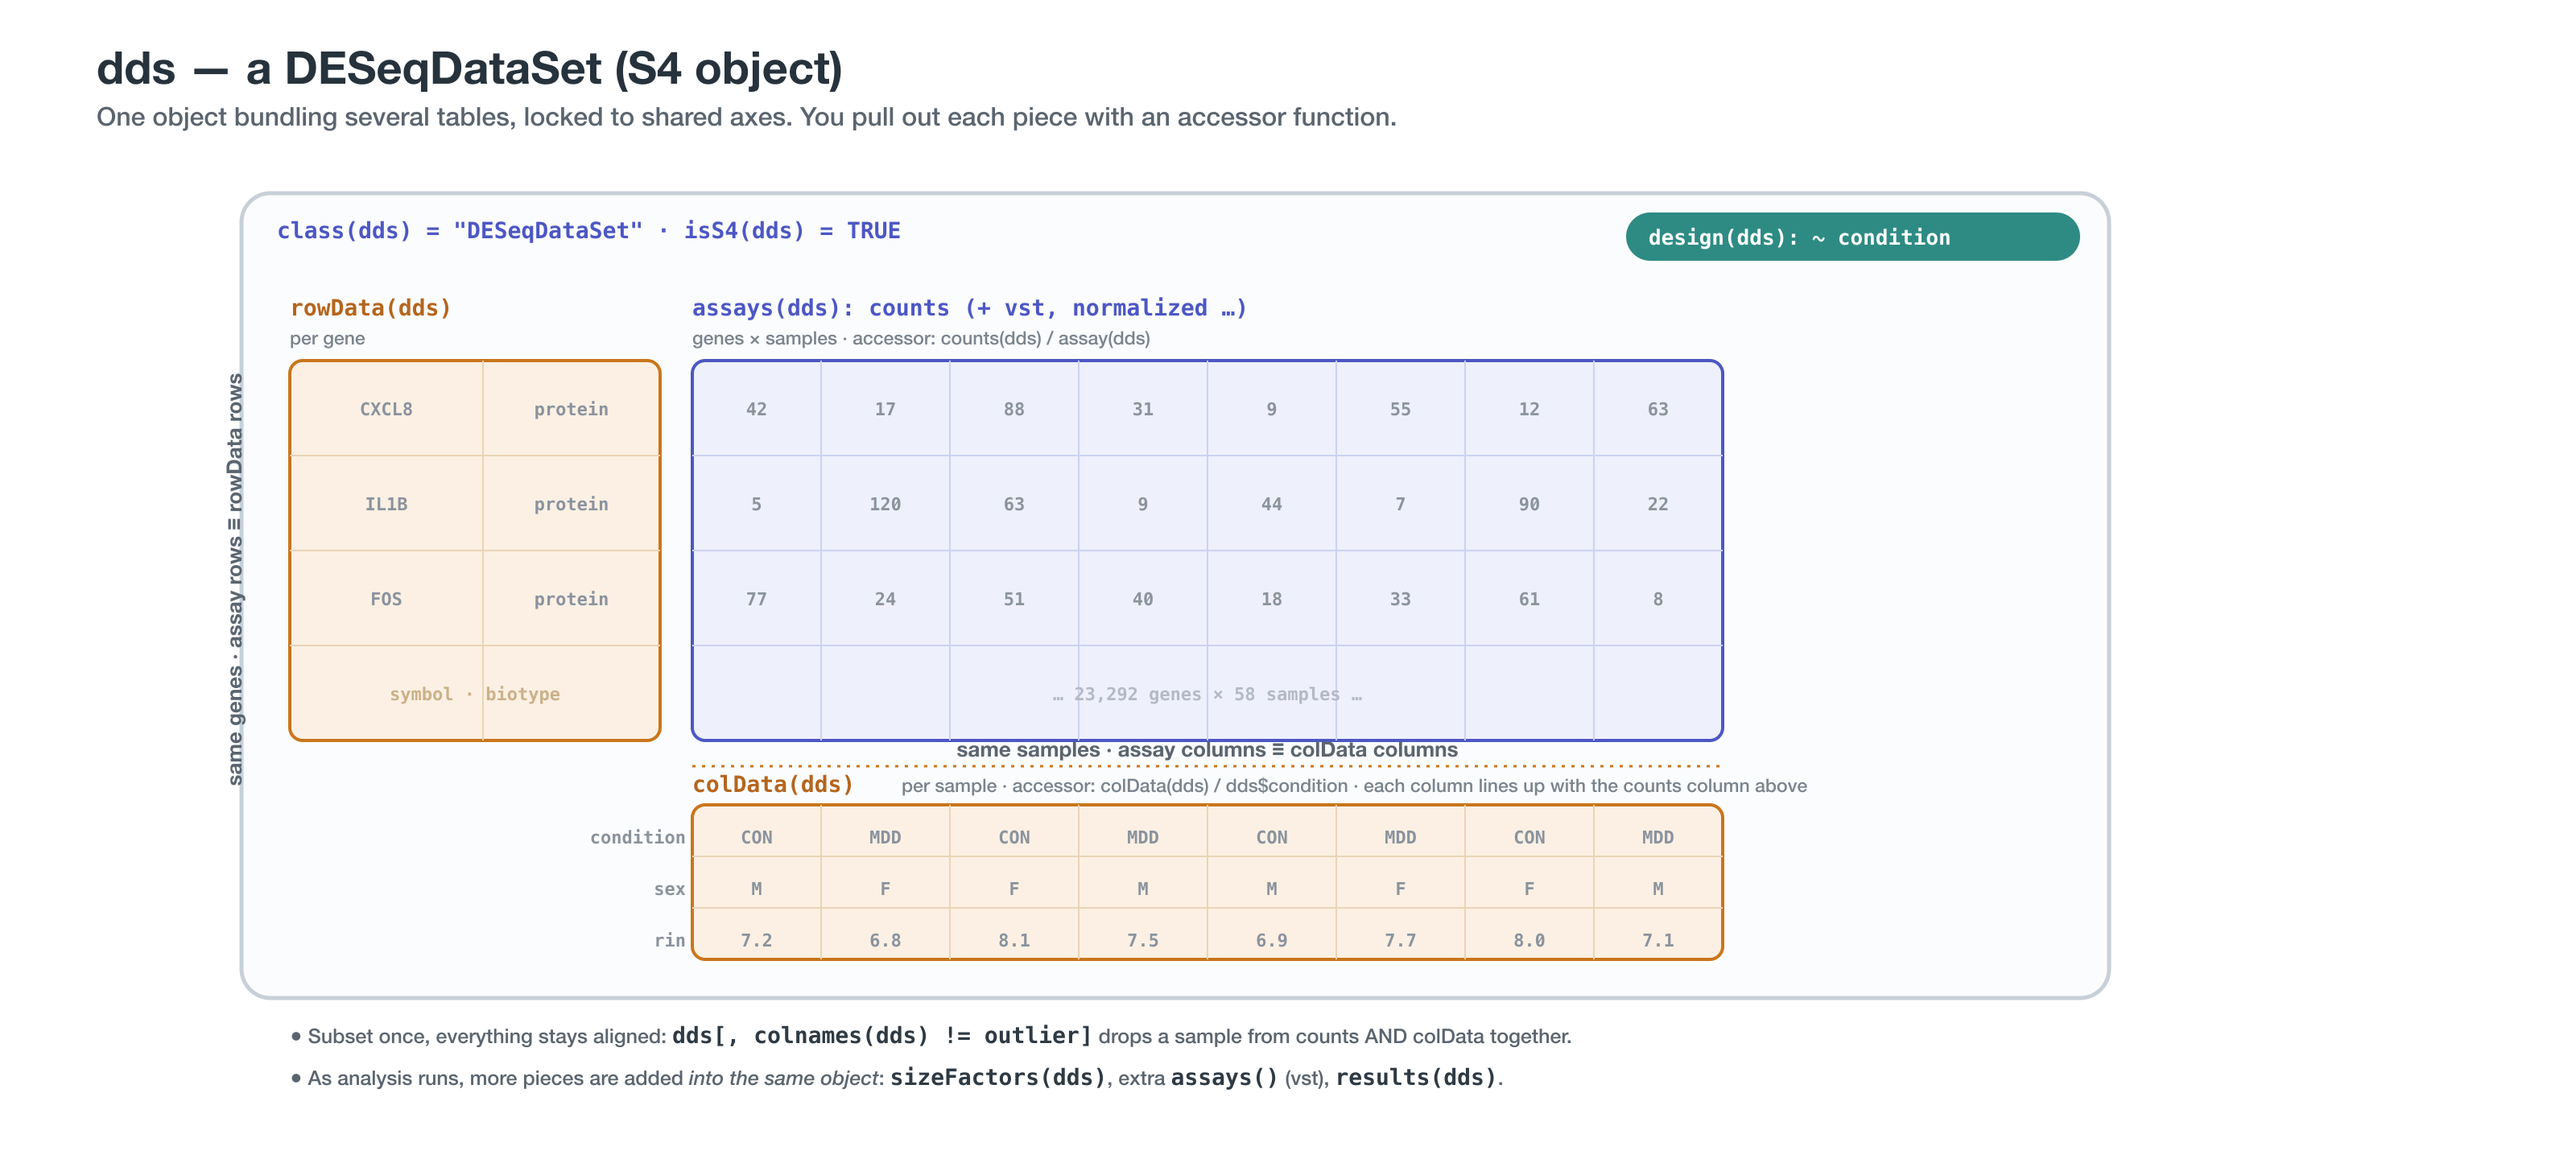
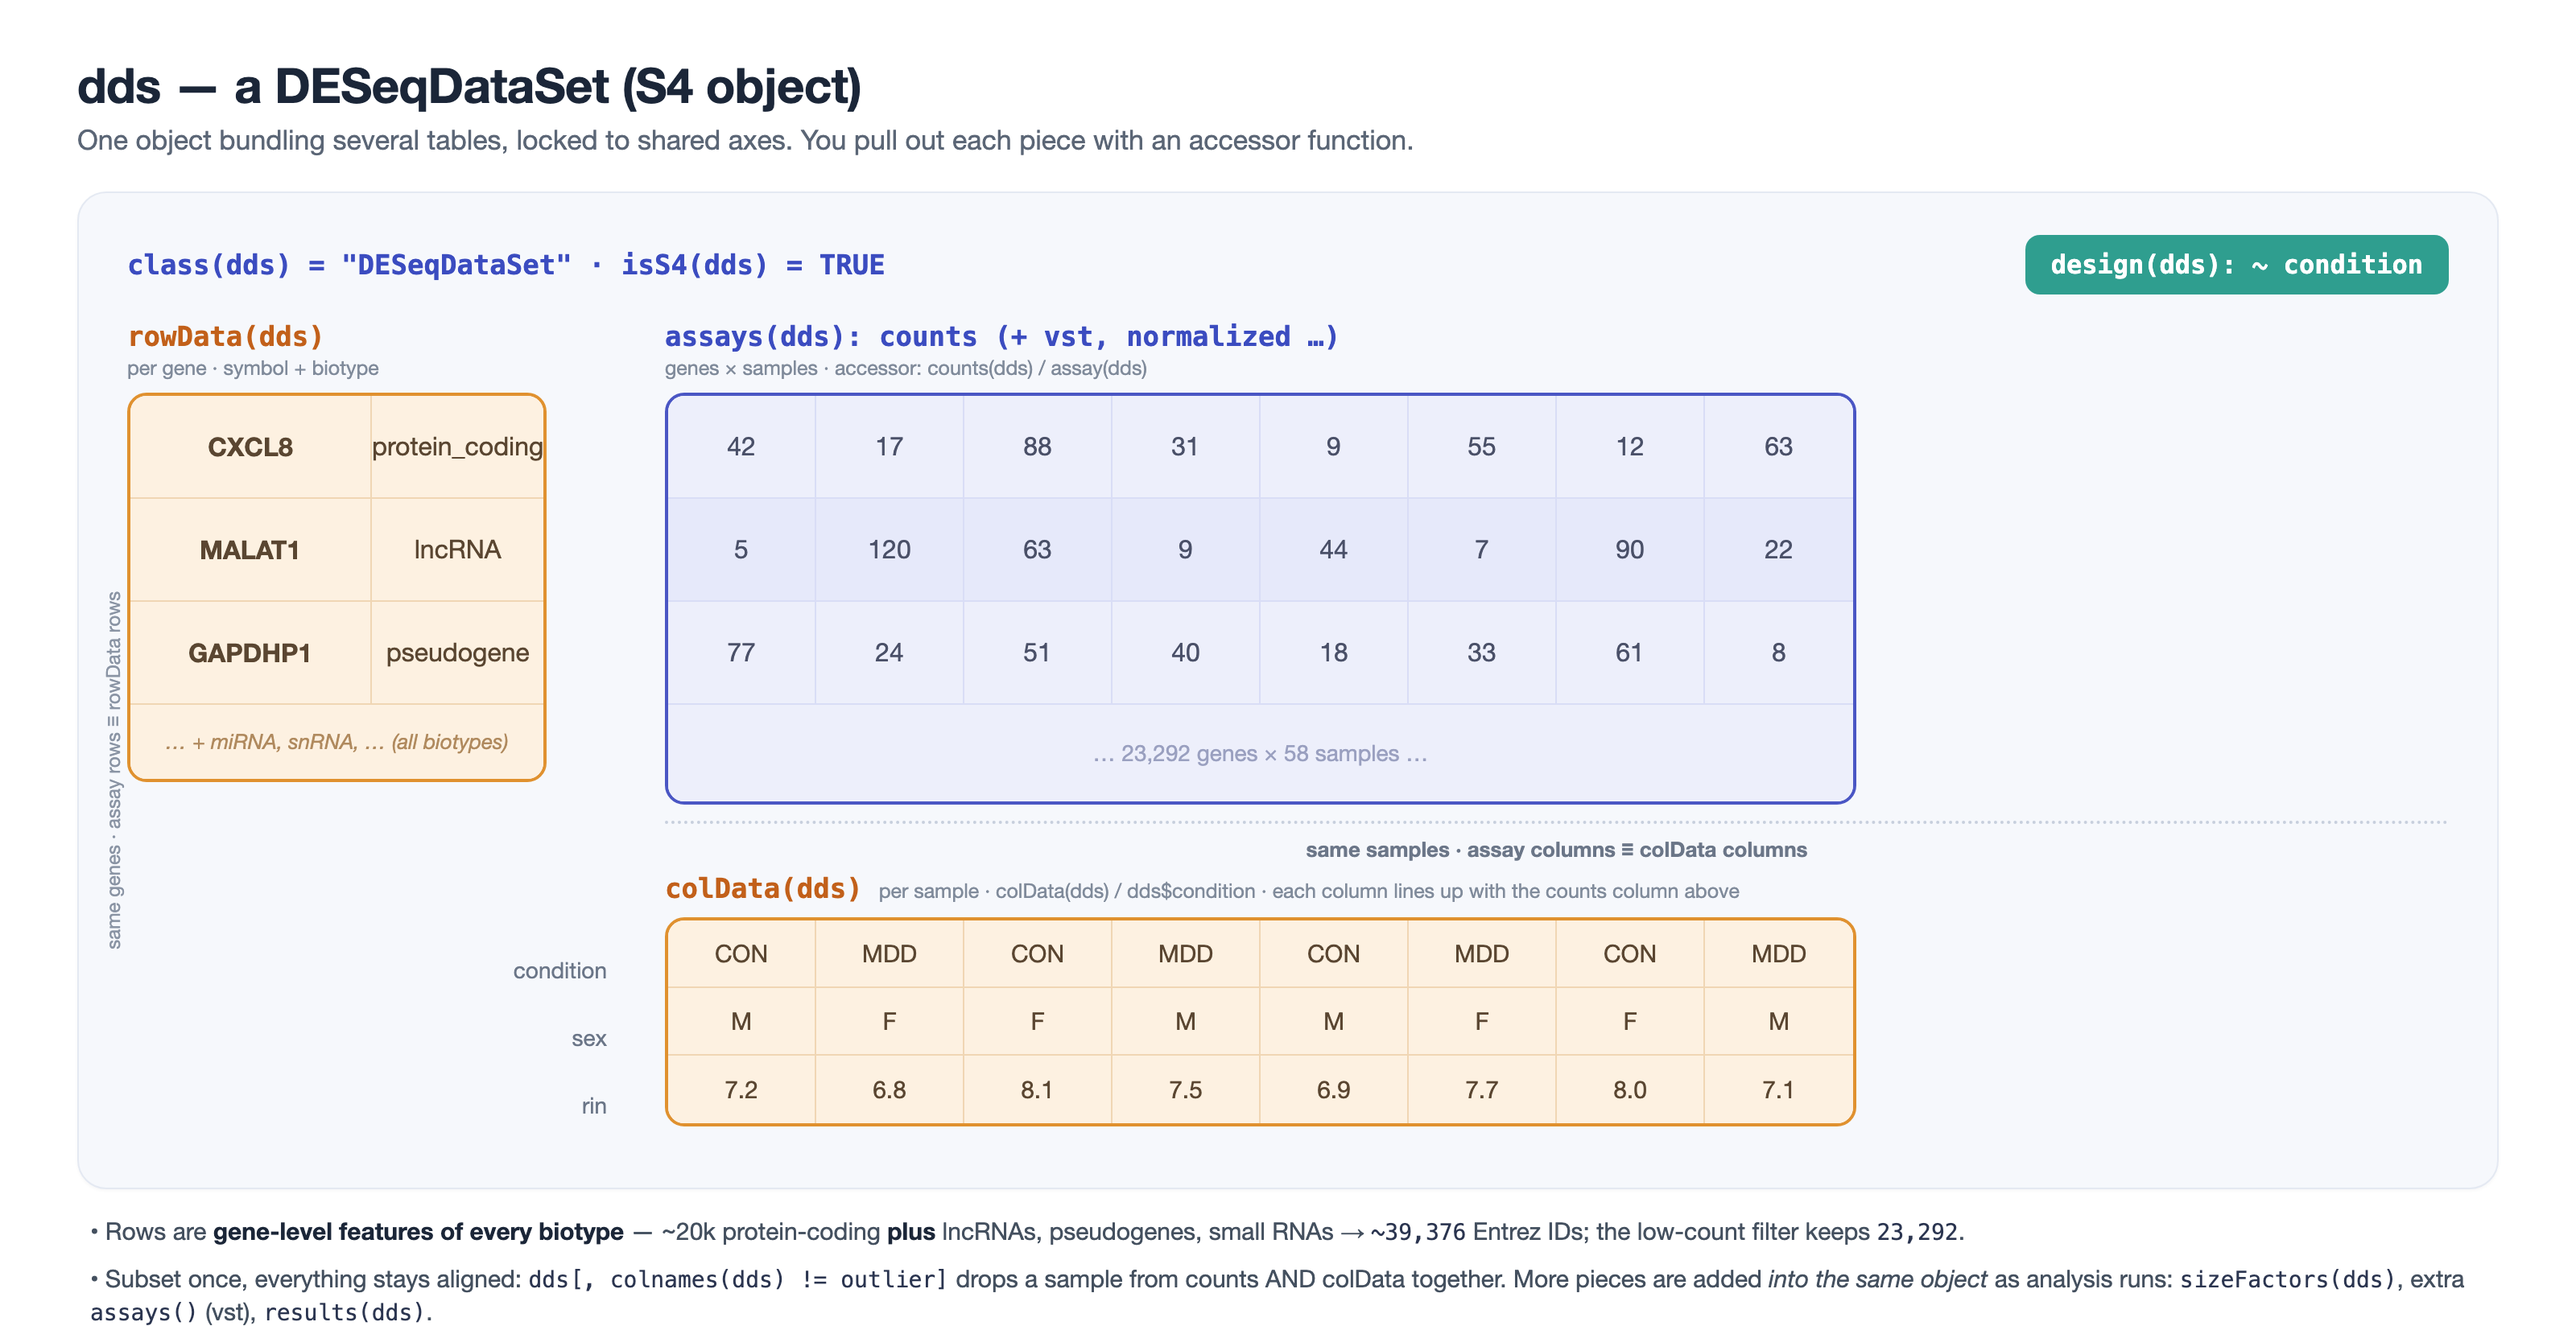
update for session 2

diff --git a/docs/dds_anatomy.html b/docs/dds_anatomy.html
@@ -1,0 +1,134 @@
+<!doctype html>
+<html>
+<head>
+<meta charset="utf-8">
+<style>
+  * { margin:0; padding:0; box-sizing:border-box; }
+  html,body { width:1600px; height:824px; background:#ffffff;
+    font-family:-apple-system,"SF Pro Text","Helvetica Neue",Arial,sans-serif; }
+  .mono { font-family:"SF Mono","Menlo","Consolas",monospace; }
+  .wrap { padding:34px 48px 0 48px; }
+  h1 { font-size:30px; font-weight:800; color:#1b2638; letter-spacing:-.3px; }
+  .sub { font-size:17px; color:#5b6676; margin-top:6px; }
+
+  .card { position:relative; margin-top:22px; background:#f6f8fc;
+    border:1px solid #e4e9f2; border-radius:18px; padding:26px 30px 30px 30px;
+    box-shadow:0 1px 2px rgba(20,30,60,.04); }
+
+  .toprow { display:flex; justify-content:space-between; align-items:center; margin-bottom:16px; }
+  .cls { font-size:17px; color:#3b4cc0; font-weight:600; }
+  .pill { background:#2f9e8f; color:#fff; font-size:16px; font-weight:600;
+    padding:9px 16px; border-radius:9px; }
+
+  .main { display:flex; gap:22px; }
+  .leftlab { position:absolute; left:14px; top:470px; transform:rotate(-90deg);
+    transform-origin:left top; font-size:12px; color:#8a94a4; white-space:nowrap; }
+
+  .colhead { font-size:17px; font-weight:700; margin-bottom:2px; }
+  .colsub  { font-size:12.5px; color:#808b9b; margin-bottom:8px; }
+  .orange .colhead { color:#c2601a; }
+  .blue   .colhead { color:#3b4cc0; }
+
+  table { border-collapse:separate; border-spacing:0; }
+  .box { border-radius:12px; overflow:hidden; }
+  .rowdata { width:312px; }
+  .rowdata .box { border:2px solid #e0912f; }
+  .rowdata td { background:#fdf1e1; border-bottom:1px solid #f0d6b4; border-right:1px solid #f0d6b4;
+    height:64px; font-size:16px; color:#5a4631; text-align:center; }
+  .rowdata td.sym { font-weight:600; width:150px; }
+  .rowdata tr:last-child td { border-bottom:none; }
+  .rowdata td:last-child { border-right:none; }
+  .rowdata td.foot { height:46px; font-size:13px; color:#b08a5e; font-style:italic; }
+
+  .assay .box { border:2px solid #4a56c4; }
+  .assay td { background:#edeffb; border-bottom:1px solid #d9ddf6; border-right:1px solid #d9ddf6;
+    width:92px; height:64px; font-size:16px; color:#4a5068; text-align:center; }
+  .assay tr:nth-child(2) td { background:#e6e9fa; }
+  .assay tr:last-child td { border-bottom:none; }
+  .assay td:last-child { border-right:none; }
+  .assay td.span { background:#edeffb; font-size:14px; color:#9aa0c0; height:60px; }
+
+  .align { text-align:center; font-size:13px; color:#6b7688; font-weight:600;
+    border-top:2px dotted #c7cfdd; padding-top:8px; margin:10px 0 6px 0; }
+
+  .cdwrap { display:flex; gap:22px; align-items:flex-start; }
+  .cdlabels { width:312px; }
+  .cdlabels div { height:42px; line-height:42px; text-align:right; padding-right:14px;
+    font-size:14px; color:#6b7688; }
+  .cdlabels .lh { height:40px; }
+  .coldata .colhead { color:#c2601a; display:inline; }
+  .coldata .colsub { display:inline; font-size:12.5px; color:#808b9b; margin-left:10px; }
+  .coldata .box { border:2px solid #e0912f; }
+  .coldata td { background:#fdf1e1; border-bottom:1px solid #f0d6b4; border-right:1px solid #f0d6b4;
+    width:92px; height:42px; font-size:15px; color:#5a4631; text-align:center; }
+  .coldata tr:last-child td { border-bottom:none; }
+  .coldata td:last-child { border-right:none; }
+
+  .notes { margin-top:16px; padding-left:8px; }
+  .notes p { font-size:15px; color:#44505f; margin-top:9px; line-height:1.35; }
+  .notes b { color:#1b2638; }
+  .k { font-family:"SF Mono","Menlo",monospace; color:#2b3550; font-size:14px; }
+</style>
+</head>
+<body>
+<div class="wrap">
+  <h1>dds &mdash; a DESeqDataSet (S4 object)</h1>
+  <div class="sub">One object bundling several tables, locked to shared axes. You pull out each piece with an accessor function.</div>
+
+  <div class="card">
+    <div class="leftlab">same genes &middot; assay rows &equiv; rowData rows</div>
+
+    <div class="toprow">
+      <div class="cls mono">class(dds) = "DESeqDataSet" &middot; isS4(dds) = TRUE</div>
+      <div class="pill mono">design(dds): ~ condition</div>
+    </div>
+
+    <div class="main">
+      <div class="rowdata orange">
+        <div class="colhead mono">rowData(dds)</div>
+        <div class="colsub">per gene &middot; symbol + biotype</div>
+        <table class="box"><tbody>
+          <tr><td class="sym">CXCL8</td><td>protein_coding</td></tr>
+          <tr><td class="sym">MALAT1</td><td>lncRNA</td></tr>
+          <tr><td class="sym">GAPDHP1</td><td>pseudogene</td></tr>
+          <tr><td class="foot" colspan="2">&hellip; + miRNA, snRNA, &hellip; (all biotypes)</td></tr>
+        </tbody></table>
+      </div>
+
+      <div class="assay blue">
+        <div class="colhead mono">assays(dds): counts (+ vst, normalized &hellip;)</div>
+        <div class="colsub">genes &times; samples &middot; accessor: counts(dds) / assay(dds)</div>
+        <table class="box"><tbody>
+          <tr><td>42</td><td>17</td><td>88</td><td>31</td><td>9</td><td>55</td><td>12</td><td>63</td></tr>
+          <tr><td>5</td><td>120</td><td>63</td><td>9</td><td>44</td><td>7</td><td>90</td><td>22</td></tr>
+          <tr><td>77</td><td>24</td><td>51</td><td>40</td><td>18</td><td>33</td><td>61</td><td>8</td></tr>
+          <tr><td class="span" colspan="8">&hellip; 23,292 genes &times; 58 samples &hellip;</td></tr>
+        </tbody></table>
+      </div>
+    </div>
+
+    <div class="align" style="margin-left:334px;">same samples &middot; assay columns &equiv; colData columns</div>
+
+    <div class="cdwrap">
+      <div class="cdlabels">
+        <div class="lh"></div>
+        <div>condition</div><div>sex</div><div>rin</div>
+      </div>
+      <div class="coldata">
+        <div><span class="colhead mono">colData(dds)</span><span class="colsub">per sample &middot; colData(dds) / dds$condition &middot; each column lines up with the counts column above</span></div>
+        <table class="box" style="margin-top:8px;"><tbody>
+          <tr><td>CON</td><td>MDD</td><td>CON</td><td>MDD</td><td>CON</td><td>MDD</td><td>CON</td><td>MDD</td></tr>
+          <tr><td>M</td><td>F</td><td>F</td><td>M</td><td>M</td><td>F</td><td>F</td><td>M</td></tr>
+          <tr><td>7.2</td><td>6.8</td><td>8.1</td><td>7.5</td><td>6.9</td><td>7.7</td><td>8.0</td><td>7.1</td></tr>
+        </tbody></table>
+      </div>
+    </div>
+  </div>
+
+  <div class="notes">
+    <p>&bull; Rows are <b>gene-level features of every biotype</b> &mdash; ~20k protein-coding <b>plus</b> lncRNAs, pseudogenes, small RNAs &rarr; <span class="k">~39,376</span> Entrez IDs; the low-count filter keeps <span class="k">23,292</span>.</p>
+    <p>&bull; Subset once, everything stays aligned: <span class="k">dds[, colnames(dds) != outlier]</span> drops a sample from counts AND colData together. More pieces are added <i>into the same object</i> as analysis runs: <span class="k">sizeFactors(dds)</span>, extra <span class="k">assays()</span> (vst), <span class="k">results(dds)</span>.</p>
+  </div>
+</div>
+</body>
+</html>

diff --git a/README.md b/README.md
@@ -13,7 +13,7 @@ Each pipeline step is a Nextflow process that wraps **one R script** in `bin/`:
 main.nf                 the pipeline: DOWNLOAD -> QC -> DGE -> INTERPRET
 nextflow.config         params + local executor
 bin/
-  00_download_data.R    download counts, build sample sheet (29 CON vs 30 MDD)
+  00_load_data.R        load counts from data/, build sample sheet (29 CON vs 30 MDD)
   01_qc.R               filter, VST, PCA, sample-distance heatmap, drop outlier
   02_dge.R              DESeq2 (~condition and ~sex+condition), shrinkage, plots
   03_interpret.R        volcano, top-gene heatmap, GO enrichment
@@ -41,7 +41,7 @@ A cleaned, labelled version lives in `docs/pipeline.mmd`:
 ```mermaid
 flowchart TB
     src[/"GSE101521: counts + metadata"/]
-    DOWNLOAD(["DOWNLOAD &nbsp; bin/00_download_data.R"])
+    DOWNLOAD(["DOWNLOAD &nbsp; bin/00_load_data.R"])
     QC(["QC &nbsp; bin/01_qc.R"])
     DGE(["DGE &nbsp; bin/02_dge.R"])
     INTERPRET(["INTERPRET &nbsp; bin/03_interpret.R"])
